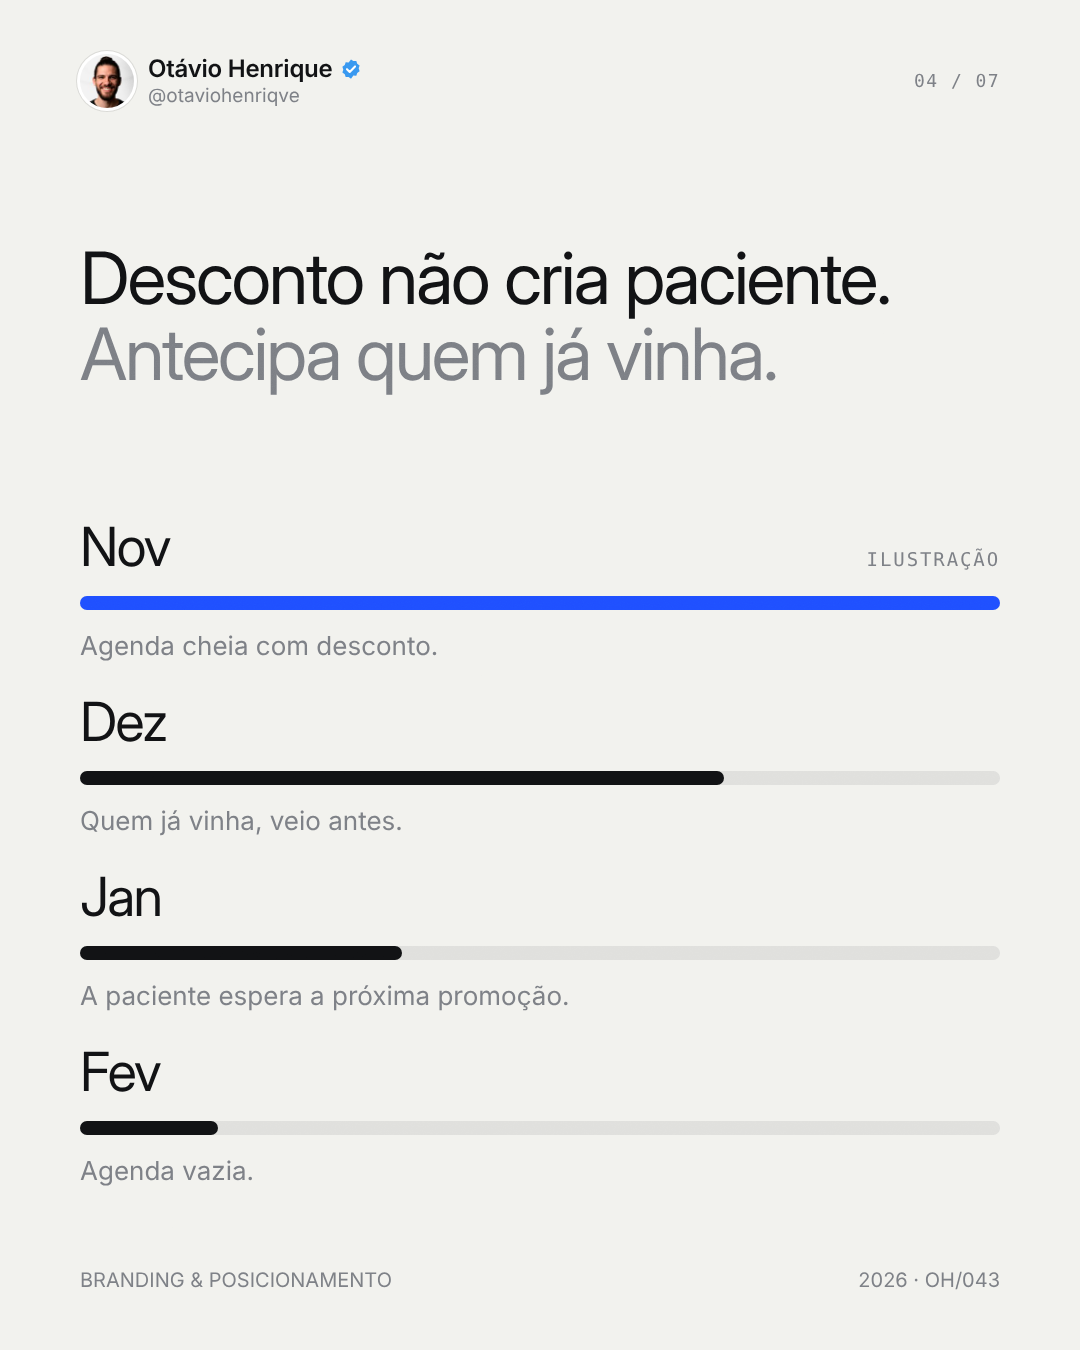
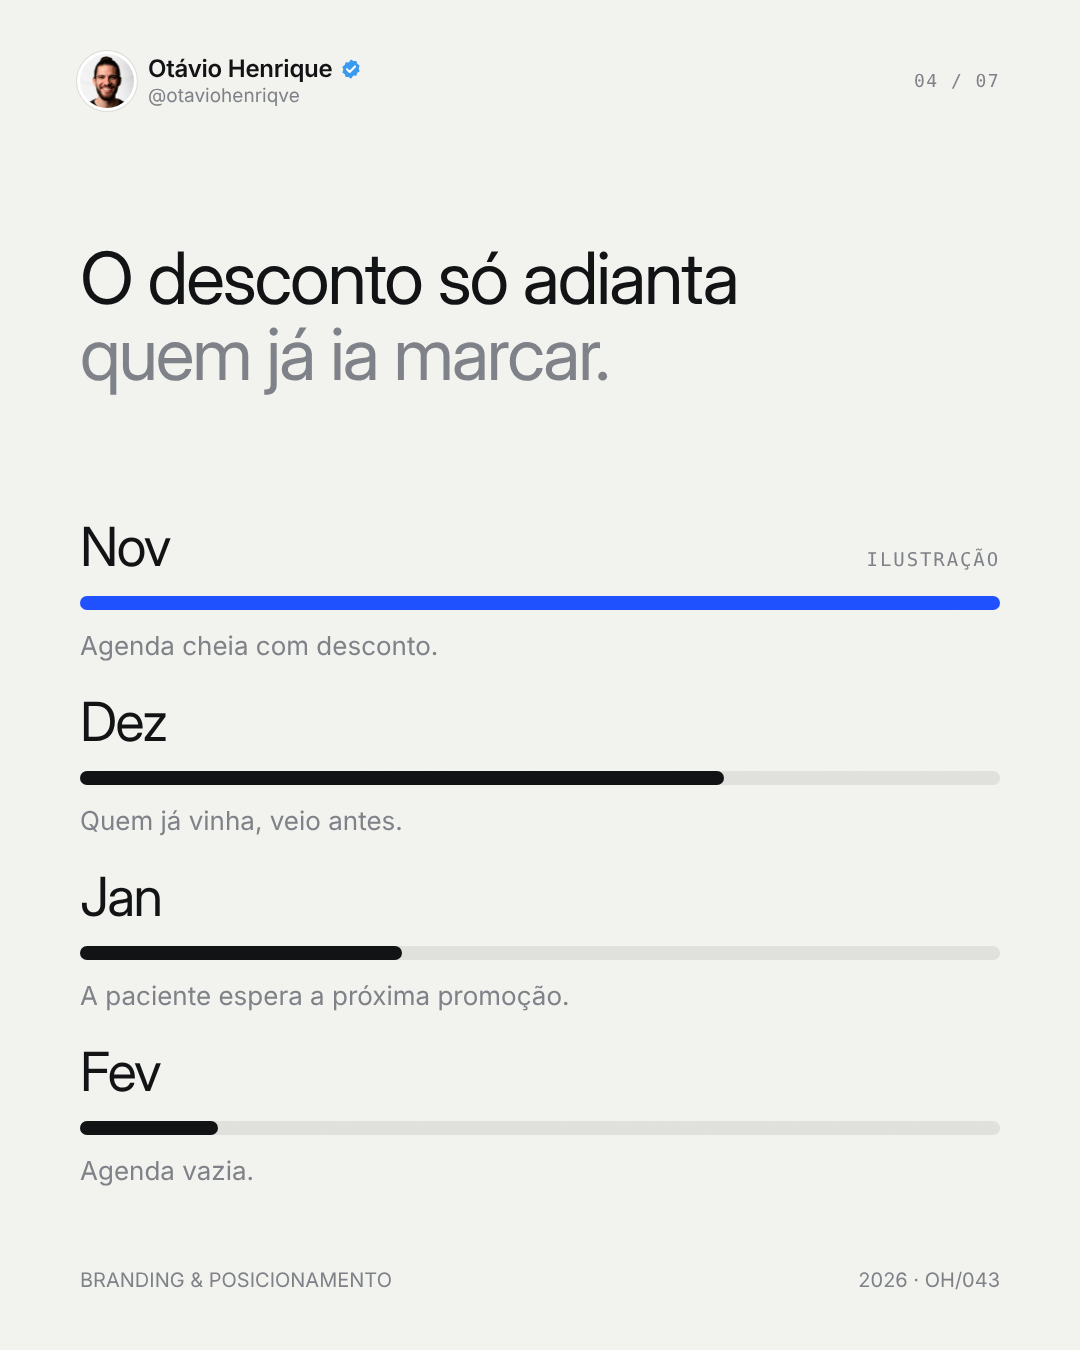
Guia de copy (público, ângulos, voz, anti-IA); estático e carrossel da Black refeitos sem antítese
Claude-Session: https://claude.ai/code/session_01GTBDSLfyakYzF6A2vFjK6d

Changed region(s): [[0.0611, 0.1867, 0.825, 0.3111]]

diff --git a/docs/COPY.md b/docs/COPY.md
@@ -1,0 +1,112 @@
+# Guia de copy · @otaviohenriqve
+
+Vale para tudo o que a esteira escreve: gancho, texto da arte, legenda, roteiro de reel, story e resposta de comentário. O copywriter (A4) lê este guia antes de escrever. O revisor de copy (A5) usa o checklist do final.
+
+## 1. Começa no público, não no tema
+
+Antes de escrever uma linha, responda por escrito:
+1. **Quem está lendo?** Uma pessoa, não "o público".
+2. **O que passa na cabeça dela quando vê esse assunto?** Escreva a frase que ela pensaria, com as palavras dela.
+3. **Qual ângulo vamos usar?** (seção 3)
+4. **O que ela precisa sentir ou fazer quando terminar?**
+
+O gancho nasce da resposta 2. Se não der para dizer qual pensamento do público o gancho pega, ele ainda não está pronto.
+
+## 2. Quem é o público
+
+São hipóteses. Elas são confirmadas e corrigidas com frases reais de comentários e directs, guardadas em `data/voz-do-publico.md`.
+
+- **Quem:** dono ou dona de clínica (estética, odontologia, dermatologia, harmonização, fisioterapia), ou o profissional de saúde que atende e também toca o negócio. Atende o dia todo e cuida do marketing nas sobras.
+- **O que pensa (na voz dele):**
+  - "Postei e ninguém chamou."
+  - "Paciente só pergunta o preço e some."
+  - "A clínica do lado cobra metade."
+  - "Já paguei agência e não deu em nada."
+  - "Não tenho tempo nem jeito para gravar."
+  - "Minha secretária não fecha."
+  - "Vivo de indicação e um mês é cheio, o outro é vazio."
+  - "Será que se eu baixar o preço a agenda enche?"
+  - "O conselho não deixa eu falar disso."
+- **O que quer:** agenda previsível, paciente que valoriza e não pechincha, ser reconhecido como o melhor da região, sair do operacional.
+- **Do que tem medo:** parecer vendedor, queimar o nome, gastar de novo sem retorno, ficar para trás da concorrência.
+- **Palavras dele:** agenda, paciente, procedimento, avaliação, orçamento, fechar, retorno, falta, "paciente de preço", recepção, WhatsApp. Evite jargão de marketing (funil, lead, conversão, branding) quando falar com ele.
+
+## 3. Ângulos
+
+O mesmo público entra por portas diferentes. A mesma ideia pode virar peças com ângulos diferentes, e a esteira alterna os ângulos e registra qual foi usado (campo `angulo`).
+
+| Ângulo | O que mexe | Exemplo de gancho |
+|---|---|---|
+| Bolso | Dinheiro que está saindo sem ele perceber | "Quanto vale cada orçamento que morre no WhatsApp da sua recepção?" |
+| Emocional | Frustração de ser bom e não ser escolhido | "Você estudou anos e perde paciente para quem só posta melhor." |
+| Racional | Número, processo, lógica | "Fiz a conta de quanto custa uma falta na agenda de uma clínica de estética." |
+| Concorrente | Comparação e medo de ficar para trás | "A clínica que abriu perto de você está fazendo isso no Instagram." |
+| Identidade | Quem ele quer ser | "Clínica que cobra bem tem uma coisa em comum na recepção." |
+| Tempo e alívio | Cansaço do operacional | "Você não precisa gravar todo dia para a sua clínica aparecer." |
+| Controle | Previsibilidade | "Por que um mês a agenda lota e no outro ninguém chama." |
+| Bastidor | Curiosidade do que acontece por dentro | "O que eu vi na reunião de marketing de um grupo de saúde essa semana." |
+| Prova | Caso e resultado real (com autorização) | Só com dado verdadeiro, sem nome de paciente. |
+
+## 4. Método pelo nível de consciência
+
+| Onde a pessoa está | Método | Como abre |
+|---|---|---|
+| Nem sabe que tem o problema | História, bastidor, curiosidade | Uma cena ou um fato que ela não esperava |
+| Sente o problema | PAS (problema, agitação, solução) | O pensamento que ela tem na cabeça |
+| Sabe que existe solução | Mecanismo próprio (Método EDEN), comparação | Por que o que ela já tentou não funcionou |
+| Conhece o Otávio | Prova, oferta, chamada direta | Resultado e próximo passo |
+
+O público já viu muito conteúdo de marketing. Promessa genérica não para ninguém. O que para é coisa específica: um número, uma cena, uma frase que ele mesmo diria.
+
+## 5. Retenção
+
+- **Gancho:** a primeira frase pega um pensamento do público ou uma cena concreta. Uma ideia por peça.
+- **Detalhe concreto:** "sexta, 18h, a recepção ainda respondendo orçamento" vale mais que "falta de processo".
+- **Loop aberto:** abra uma pergunta no começo e responda só no fim.
+- **Ritmo:** frases de tamanhos diferentes. Uma curta depois de uma longa.
+- **Fecho:** termina com algo que a pessoa faz amanhã, ou com uma pergunta que ela quer responder.
+
+## 6. Voz do Otávio
+
+- Primeira pessoa, falando com uma pessoa só ("você").
+- Coloquial natural, como ele fala num story. "Está" e "tá" convivem; use "estava", "estavam" quando soar melhor. No máximo uma marca de fala ("cara", "olha") por legenda. Não force gíria.
+- Opinião com convicção, sem arrogância. Pode discordar do mercado.
+- Pode começar frase com "E" ou "Mas".
+- Chamada para seguir só em primeira pessoa e com motivo: "me segue que essa semana eu só falo de preço em clínica". Nunca "siga @otaviohenriqve".
+
+## 7. Proibido: cara de IA
+
+Qualquer item abaixo reprova a peça no A5.
+
+- **Antítese de reenquadramento:** "não é X, é Y", "X não é A. É B.", "o problema não é X", "não se trata de X, mas de Y", "menos X, mais Y", "seu preço não é caro, sua explicação é que é barata".
+- **Pares espelhados de efeito:** "Desconto vende uma vez. Confiança vende todo mês.", "Quem X, Y. Quem Z, W."
+- **Tríade de efeito:** "rápido, simples e eficaz".
+- **Fórmulas:** "A verdade é que", "E o melhor?", "Spoiler:", "Vamos falar sobre", "Neste post", "No mundo de hoje", "Descubra", "Imagine só", "Pense nisso", "Simples assim", "Faz sentido?".
+- **Palavras de agência:** jornada, potencializar, alavancar, estratégico, transformar, incrível, desbloquear, elevar.
+- **Pontuação e forma:** travessão longo (—), emoji em lista, pergunta retórica atrás de pergunta retórica, toda frase terminando em frase de efeito.
+- **Terceira pessoa:** "siga @otaviohenriqve", "o Otávio explica".
+
+Comparar dois lados num **visual** (tabela "no varejo / na saúde", "em vez de / tente") é permitido. Proibido é o vício de frase.
+
+## 8. Antes e depois
+
+| Com cara de IA | Humano |
+|---|---|
+| "Seu preço não é caro. Sua explicação é que é barata." | "Antes de baixar o preço da consulta, faz um teste. Pergunta pro último paciente que achou caro se alguém explicou o que estava incluso. Aposto que ninguém explicou." |
+| "Desconto não cria paciente. Antecipa quem já vinha." | "O desconto só adianta quem já ia marcar." |
+| "Se alguma resposta foi não, o problema não é o preço." | "Respondeu não em alguma? Comece por ela, antes de mexer no preço." |
+| "Responde SIM ou NÃO. E segue @otaviohenriqve." | "Me conta aqui embaixo, SIM ou NÃO, e por quê. Me segue que essa semana eu só vou falar de preço em clínica." |
+
+## 9. Checklist do revisor (A5)
+
+1. Dá para dizer qual pensamento do público o gancho pega?
+2. O ângulo está claro e é diferente das últimas peças do registro?
+3. Tem pelo menos um detalhe concreto (número com fonte, cena, frase real)?
+4. Zero itens da seção 7?
+5. Lendo em voz alta, o Otávio falaria assim num story?
+6. Alguém pararia no primeiro segundo?
+7. Termina com uma ação ou uma pergunta que a pessoa quer responder?
+
+## 10. Voz do público
+
+A cada análise (Parte B), copie para `data/voz-do-publico.md` as frases reais que aparecem em comentários e directs, sem nome nem @. Organize por tema (preço, agenda, equipe, Instagram, concorrência). Ganchos e respostas usam essas frases. É a pesquisa de público mais confiável que existe.

diff --git a/docs/ESTEIRA.md b/docs/ESTEIRA.md
@@ -93,6 +93,8 @@ Seguem para a próxima etapa as ideias com **nota ≥ 7,5**, até **3 peças de 
 Leia `aprendizados.md`: se um formato está performando muito melhor, puxe para ele.
 
 ### A4 · Copywriter
+Antes de escrever, leia `docs/COPY.md` (público, ângulos, voz e a lista do que é proibido por ter cara de IA) e `data/voz-do-publico.md`. Escreva no `registro` qual pensamento do público o gancho pega (campo `pensamento`).
+
 1. **Ângulo:** escolha o que faz a pessoa pensar "é a minha situação". Opções: dor, medo de perder, comparação com o concorrente, crença errada, fenômeno com nome, número que choca, bastidor, previsão, antes e depois.
 2. **Método, pelo nível de consciência do público:**
    - **PAS** (problema, agitação, solução) para público frio com dor clara;
@@ -128,7 +130,9 @@ Dá nota de 0 a 10 em cada critério:
 - tom: provocativo sem ofender;
 - impacto de mercado: isso se destaca no feed de quem segue perfis de marketing?
 - conformidade: acentos certos, nada proibido, sem promessa;
-- voz da legenda: soa como o Otávio falando com uma pessoa (primeira pessoa, coloquial)? Qualquer "siga @…", terceira pessoa ou tom de agência deixa este critério abaixo de 7 e reprova.
+- voz da legenda: soa como o Otávio falando com uma pessoa (primeira pessoa, coloquial)? Qualquer "siga @…", terceira pessoa ou tom de agência deixa este critério abaixo de 7 e reprova;
+- sem cara de IA: passe a seção 7 do `docs/COPY.md` em todo texto (arte, legenda, roteiro). Um item encontrado já reprova, mesmo com média alta;
+- público e ângulo: o gancho pega um pensamento real do público e o ângulo está claro (checklist da seção 9 do `docs/COPY.md`).
 
 Para passar, a **média precisa ser ≥ 8,5 e nenhum critério pode ficar abaixo de 7**. Se não passar, o copywriter reescreve com os comentários do revisor, no máximo 2 vezes. Se ainda assim não passar, descarte a ideia ou faça a melhor versão e registre a nota.
 
@@ -256,9 +260,10 @@ Faça commit e push.
    - o que funciona e o que não funciona, como regras curtas baseadas em dados ("gancho com número: alcance 2,1× a média em 6 posts");
    - o que testar a seguir: até 3 hipóteses.
 4. Faça as contas rodando código, nunca de cabeça. Nada de número inventado: se faltar dado, diga que falta.
-5. **Leads e comentários.** Chame `painel_leads` e `painel_comentarios`. Atualize as sugestões de `data/respostas.json` (mesmas regras do A0). Conte quantos leads estão com status `novo` e quantos comentários estão sem resposta há mais de 12 h.
-6. Faça commit e push.
-7. **Mensagem para o Otávio:** só se houver algo relevante: post que estourou, falha de publicação, queda forte, **lead novo** (cite o @ e o que a pessoa disse, em 1 linha cada) ou comentário esperando há mais de 12 h. Às **sextas**, mande sempre o placar da semana: seguidores, quanto falta, campeão, pior e até 3 ajustes.
+5. **Voz do público.** Copie para `data/voz-do-publico.md` as frases reais de comentários e directs do dia, sem nome nem @, organizadas por tema (veja `docs/COPY.md`, seção 10).
+6. **Leads e comentários.** Chame `painel_leads` e `painel_comentarios`. Atualize as sugestões de `data/respostas.json` (mesmas regras do A0). Conte quantos leads estão com status `novo` e quantos comentários estão sem resposta há mais de 12 h.
+7. Faça commit e push.
+8. **Mensagem para o Otávio:** só se houver algo relevante: post que estourou, falha de publicação, queda forte, **lead novo** (cite o @ e o que a pessoa disse, em 1 linha cada) ou comentário esperando há mais de 12 h. Às **sextas**, mande sempre o placar da semana: seguidores, quanto falta, campeão, pior e até 3 ajustes.
 
 ---
 

diff --git a/data/aprendizados.md b/data/aprendizados.md
@@ -42,3 +42,6 @@ Notas de copy entre 6,1 e 6,3 e de visual entre 6,4 e 7,1. Os problemas se repet
 
 ## Regra do Otávio (21/11/2026): legenda humana
 Legenda na voz dele, em primeira pessoa, falando com uma pessoa só, coloquial como nos reels. Nunca "siga @otaviohenriqve" nem terceira pessoa. Chamada para seguir só como "me segue que…", com um motivo.
+
+## Regra do Otávio (21/11/2026): sem cara de IA
+Nada de antítese ("não é X, é Y"), pares espelhados de efeito ou fórmulas de IA, em nenhum texto. Copy parte do pensamento do público e de um ângulo claro (emocional, racional, bolso…). Guia completo em docs/COPY.md.

diff --git a/data/voz-do-publico.md b/data/voz-do-publico.md
@@ -1,0 +1,13 @@
+# Voz do público
+
+Frases reais de comentários e directs, sem nome nem @. A esteira de análise acrescenta todo dia. Ganchos e respostas usam estas palavras.
+
+## Preço
+
+## Agenda
+
+## Equipe e recepção
+
+## Instagram e conteúdo
+
+## Concorrência
